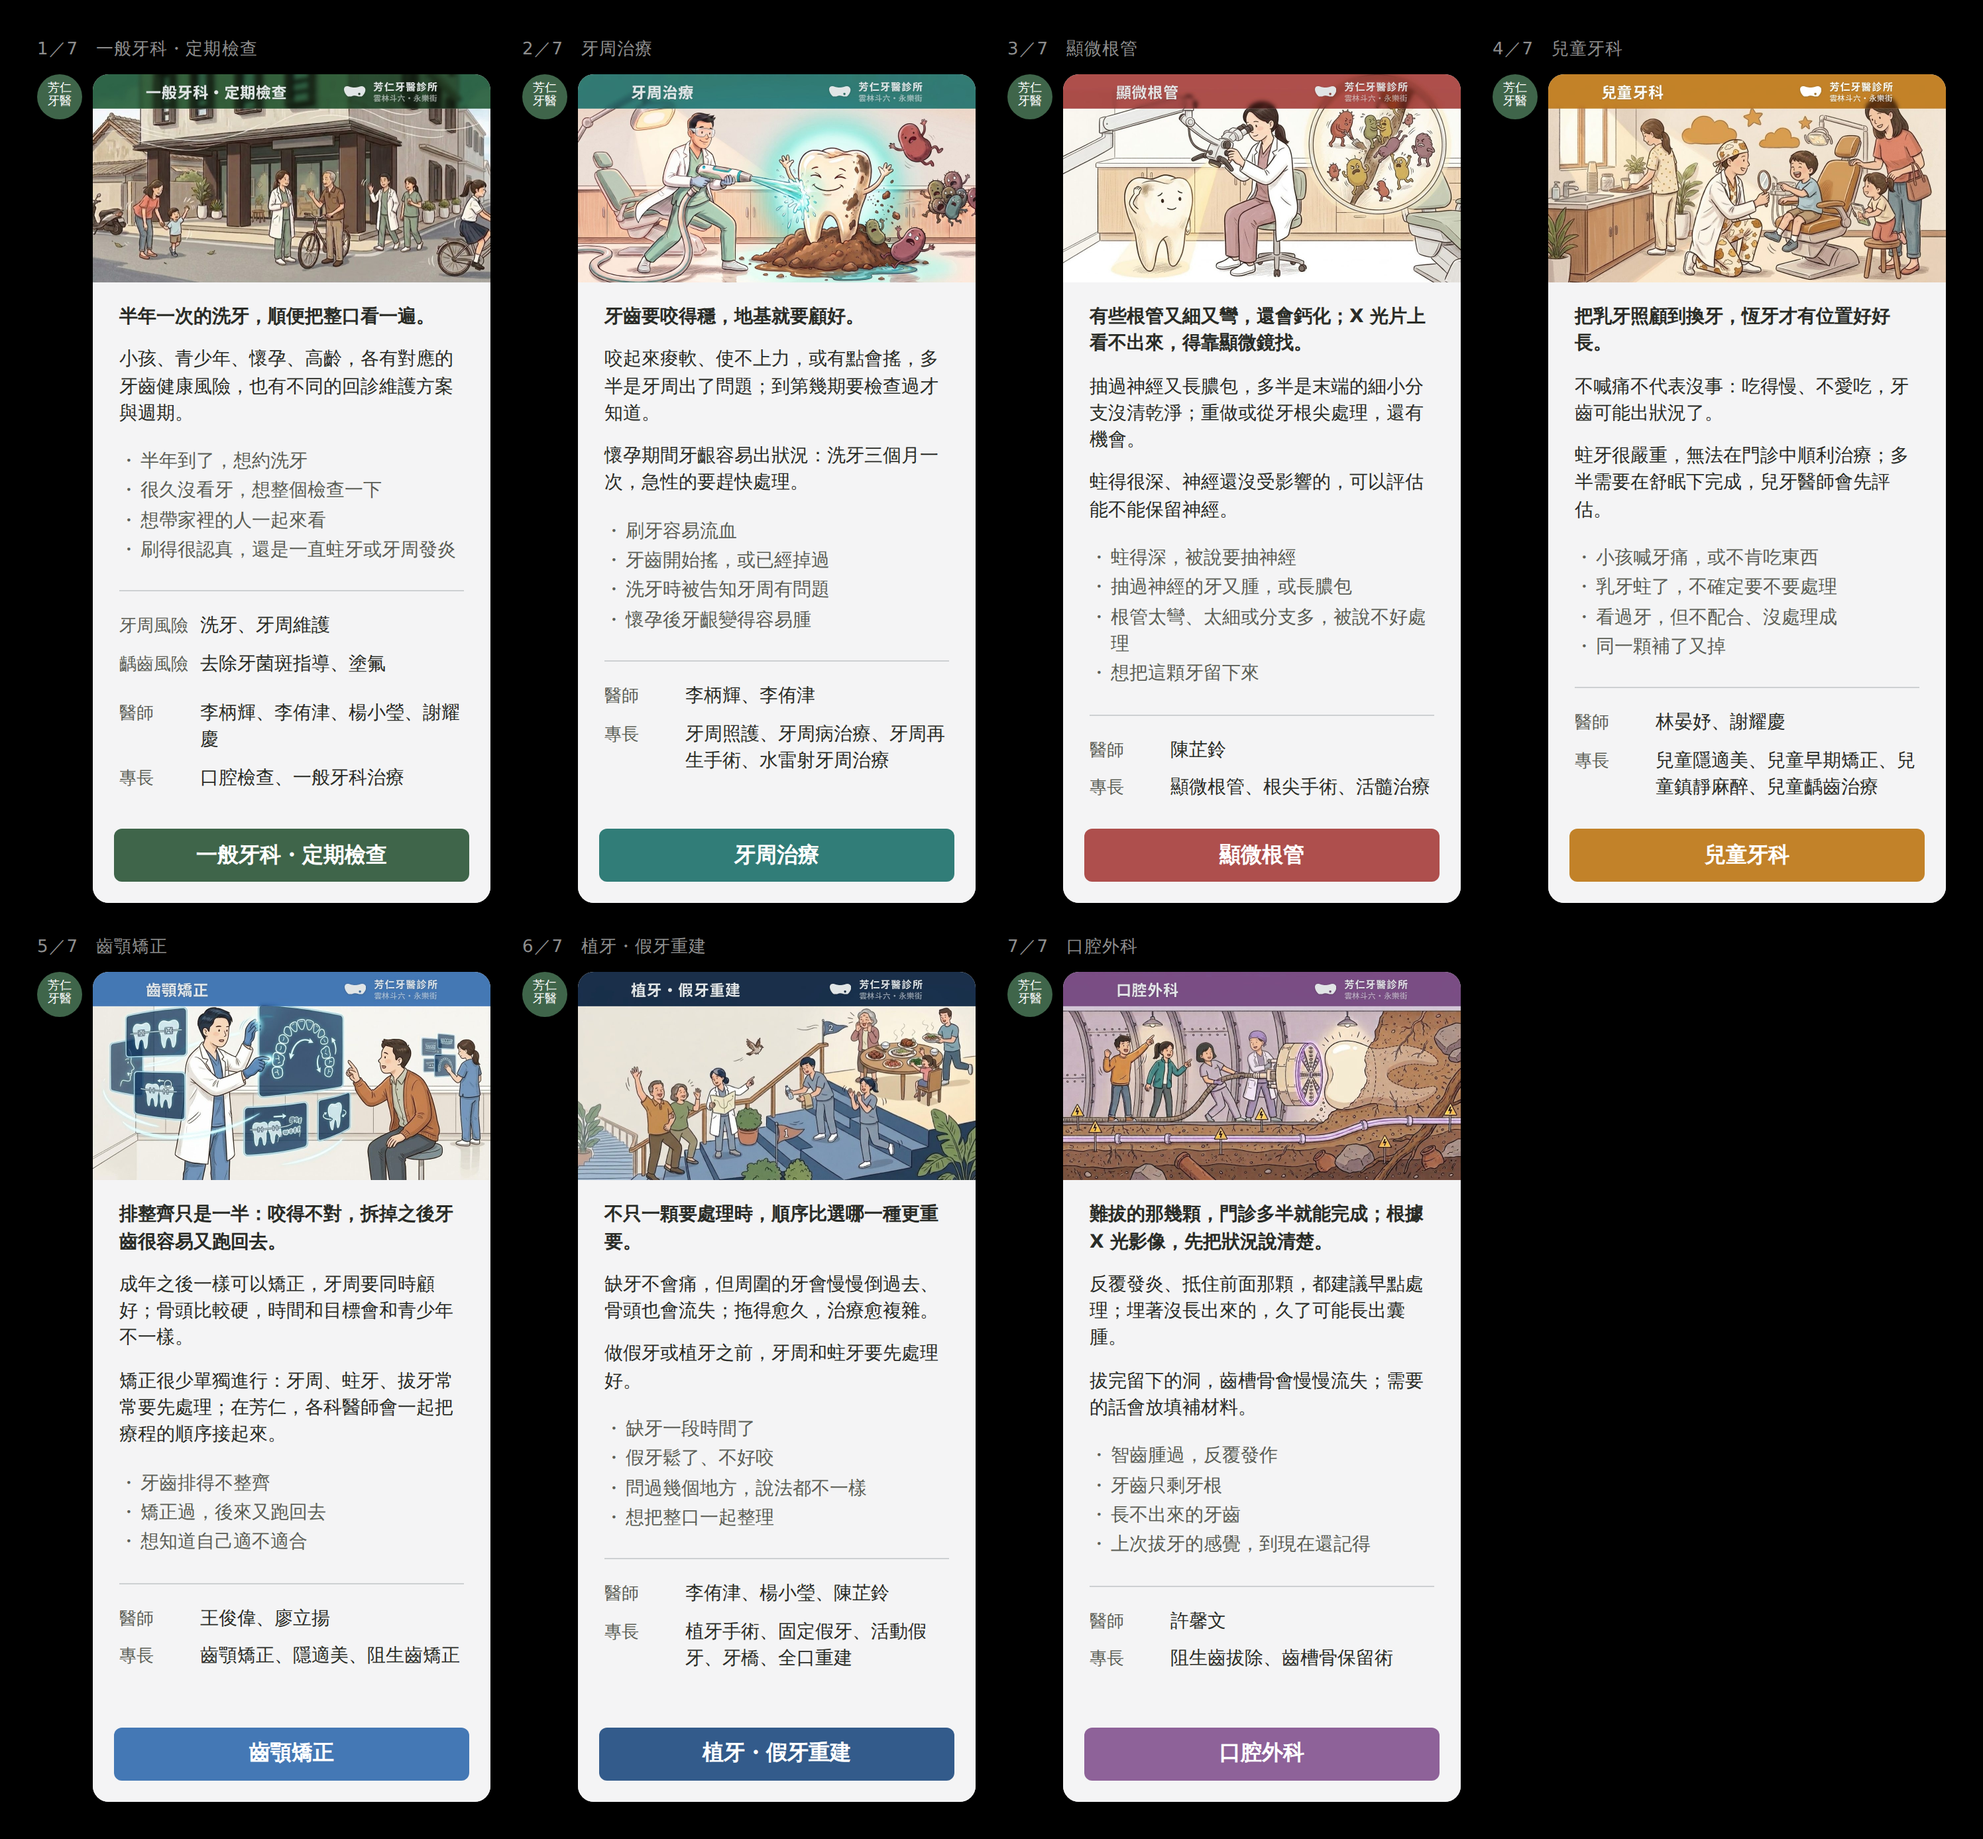
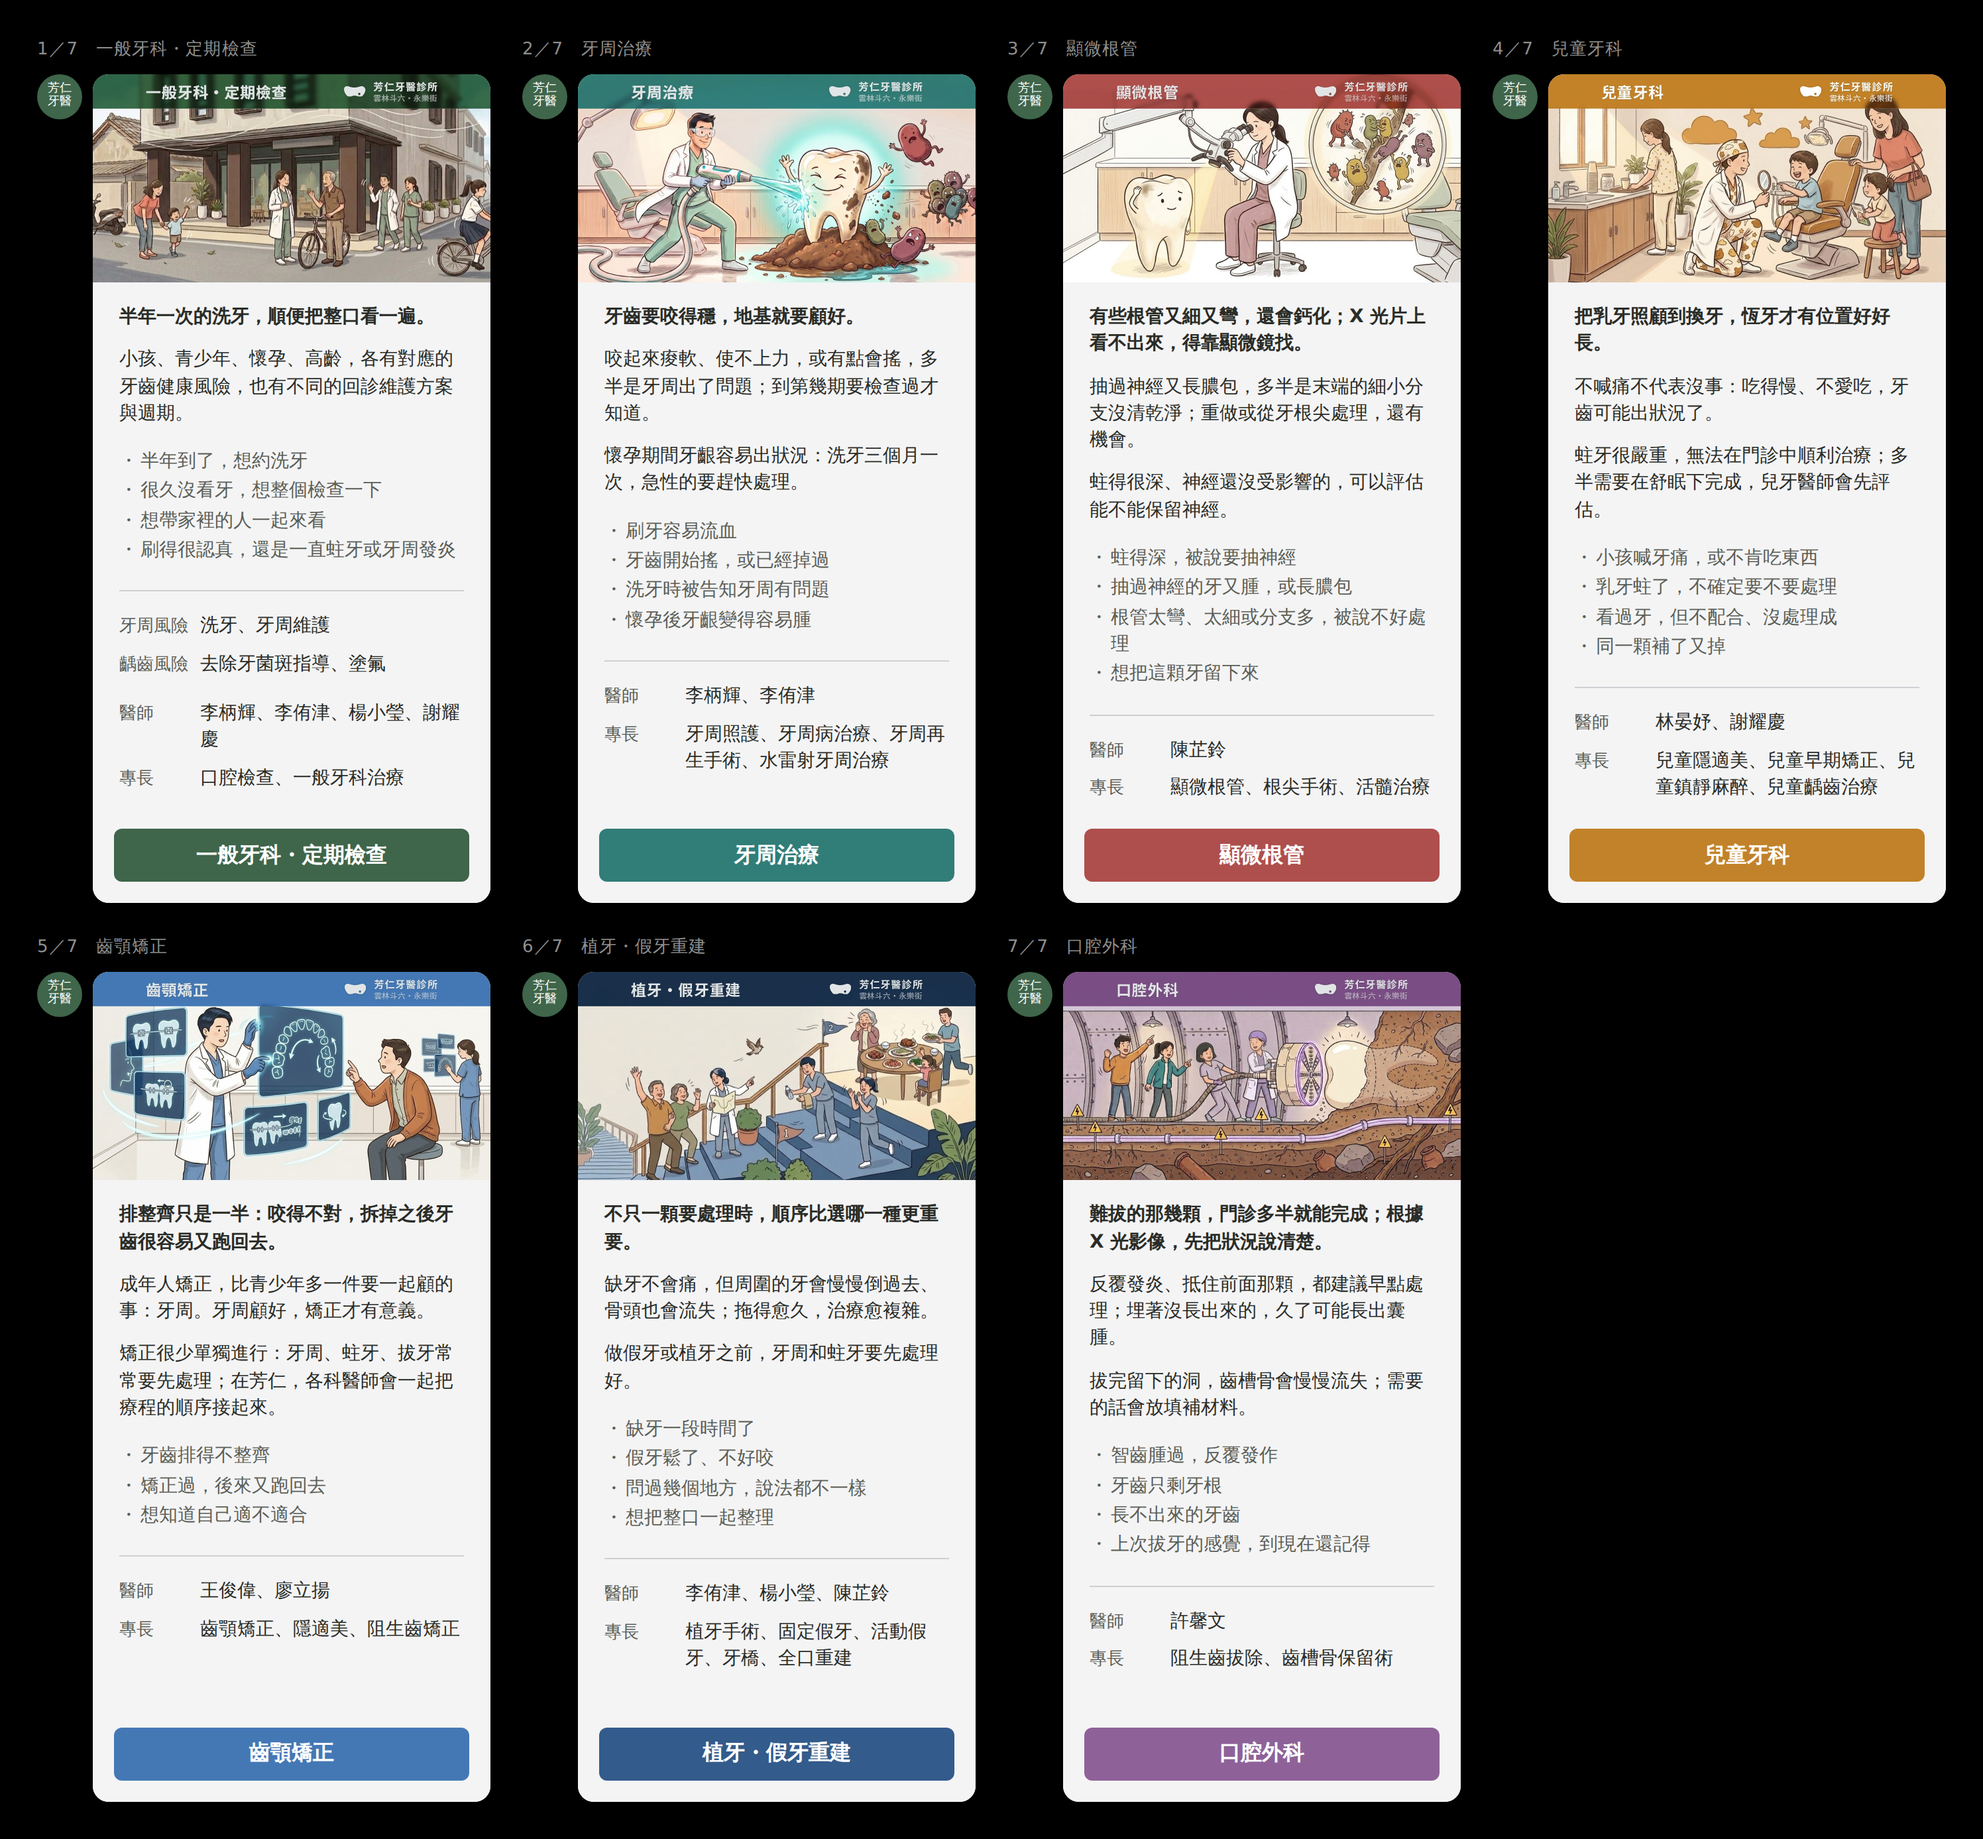
矯正卡：拿掉「和青少年不一樣」，牙周改寫成多一件一起顧的事
使用者：「不一樣是什麼意思，是更久還是有什麼我不知道的意外？
那我還是不要想矯正好了。」未知比壞消息更會勸退人。

TEAM.md 第十二位新增一條紅線。

Claude-Session: https://claude.ai/code/session_01QMa36HgXCp2rYEV7ykbWqK

Changed region(s): [[0.0622, 0.682, 0.2487, 0.8991]]

diff --git a/drafts/line-oa/README.md b/drafts/line-oa/README.md
@@ -848,3 +848,15 @@ CLAUDE.md 第九節那張表裡**還沒問到**的事，不要自己補。
 3. **「這幾科診所裡都有醫師」太白話，而且不成立**（使用者：「有醫師不見得
    願意處理，或是有醫師不見得會好好合作」）。改成「在芳仁，各科醫師會一起
    把療程的順序接起來」——落在**順序**上，和植牙那張同一個立場。
+
+## 第二十二輪（2026-08-28）——矯正的成年那一句再改
+
+使用者兩件：
+
+1. **「骨頭比較硬，時間和目標會和青少年不一樣」整句拿掉。**
+   原話：「不一樣是什麼意思，是更久還是有什麼我不知道的意外？那我還是不要想矯正好了。」
+   —— **未知比壞消息更會勸退人**，而卡片沒有空間解釋差在哪。
+2. **牙周的角色要講對**：成年矯正是**比青少年多一道要考慮的因素**，
+   不是「牙周不好就不要矯正」；而且方向是正的 ——「牙周顧好，矯正才有意義」。
+
+定稿：`成年人矯正，比青少年多一件要一起顧的事：牙周。牙周顧好，矯正才有意義。`

diff --git a/TEAM.md b/TEAM.md
@@ -335,6 +335,11 @@
     讀的人會自動問「**那不是的呢**」，而短文案沒有空間回答。
     **要嘛答得出來，要嘛不要寫。**
     ⚠ 和**頻率詞**不同：「**多半**門診就能完成」講的是常態，沒有先切出一群例外。
+  - ⚠⚠⚠ **「和 X 不一樣」是空的，而空的地方讀者會自己填最壞的。**
+    2026-08-28 踩過：矯正那張寫「時間和目標會和青少年**不一樣**」，使用者：
+    「不一樣是什麼意思，是更久還是有什麼我不知道的意外？那我還是不要想矯正好了。」
+    **短文案沒有空間解釋差在哪，就不要提有差。**
+    ⚠ 講差異的正確形狀是**多一件要做的事**（可執行），不是**會不一樣**（未知）。
   - ⚠⚠⚠ **「前提是…」會把本來可以做的人擋在門外。** 2026-08-28 踩過：
     矯正那張寫「成年之後還是可以矯正，**前提是**牙周先穩定」，使用者：
     「這樣講會讓人猶豫，成年人到底要不要矯正 —— 我們要講的是**這兩件事都要做好**。」
